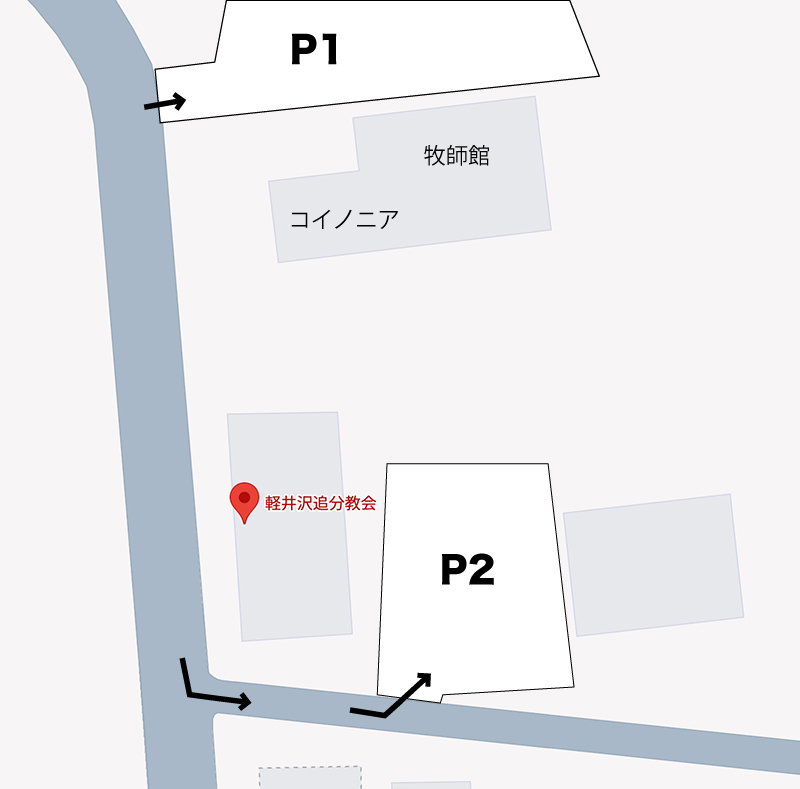
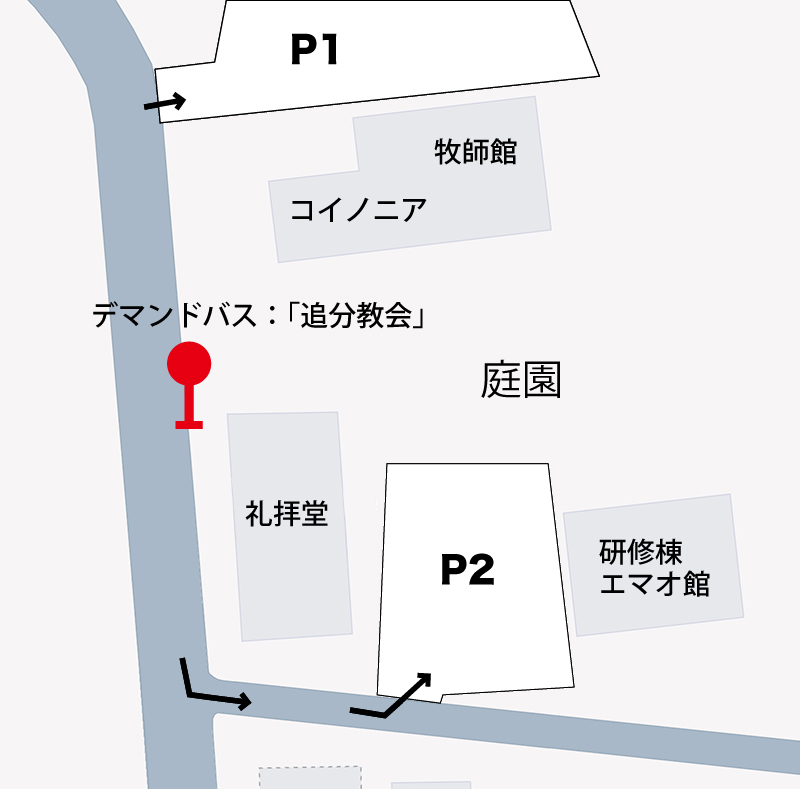
アクセス欄の交通案内と駐車場の案内を更新し、駐車場写真を差し替える

diff --git a/front-page.php b/front-page.php
@@ -259,8 +259,8 @@ $hero_slides = array(
 <p class="font-label-md text-label-md text-secondary group-hover:text-on-primary-container mt-1">Weddings</p>
 </div>
 <p class="service-card-body font-body-md text-body-md text-on-surface-variant group-hover:text-surface-container">
-                当教会で結婚式を挙げられる方には、信者かどうかを問わず、キリスト教講座の受講と礼拝への出席をお願いしています。
-              </p>
+	当教会で結婚式を挙げられる方には、信者かどうかを問わず、キリスト教講座の受講と礼拝への出席をお願いしています。
+</p>
 </div>
 </div>
 </div>
@@ -281,13 +281,16 @@ $hero_slides = array(
 </div>
 <div class="access-guide">
 <h3 class="access-guide-title">交通アクセスと駐車場のご案内</h3>
-<p>当教会へはお車、または電車・タクシーをご利用いただけます。</p>
-<p>お車： 上信越自動車道「佐久平スマートIC」または「佐久IC」より約15分</p>
-<p>電車： しなの鉄道「御代田駅」よりタクシーで約6分</p>
+<p>当教会へは車、または電車・タクシーをご利用ください。</p>
+<p>車： 上信越自動車道「佐久平スマートIC」または「佐久IC」より約15分</p>
+<p>電車： JR北陸新幹線「軽井沢駅」乗り換え、しなの鉄道「御代田駅」よりタクシーで約6分</p>
 <p>高速バス：池袋、新宿他、各地より軽井沢方面への高速バスが運行</p>
-<p>駐車場： 敷地内に20〜30台分の駐車スペースがございます。</p>
+<p>駐車場： 20〜30台
+<!--
+<p class="access-guide-note">※特別讃美礼拝等イベントの際には、混雑が予想されます。</p>
 <p class="access-guide-note">※特別讃美礼拝等の際には、開始30分前より案内係が駐車誘導を行います。</p>
 <p class="access-guide-note">※駐車スペースに限りがございますので、できる限りお乗り合わせの上お越しいただけますようご協力をお願い申し上げます。</p>
+-->
 </div>
 <img alt="軽井沢追分教会の駐車場" class="access-parking-image" src="<?php echo esc_url( get_template_directory_uri() ); ?>/images/parking.jpg"/>
 </div>
